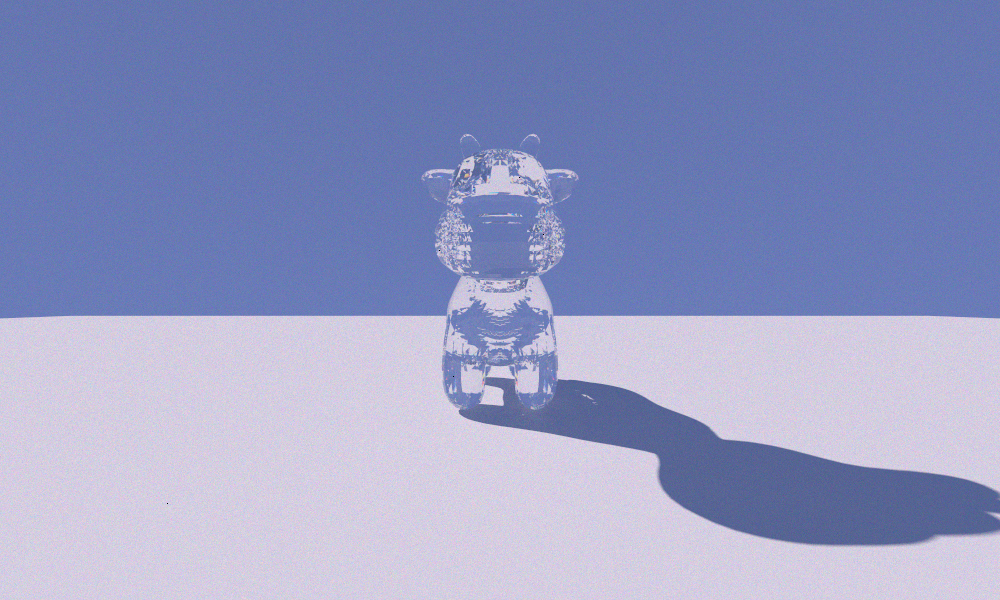
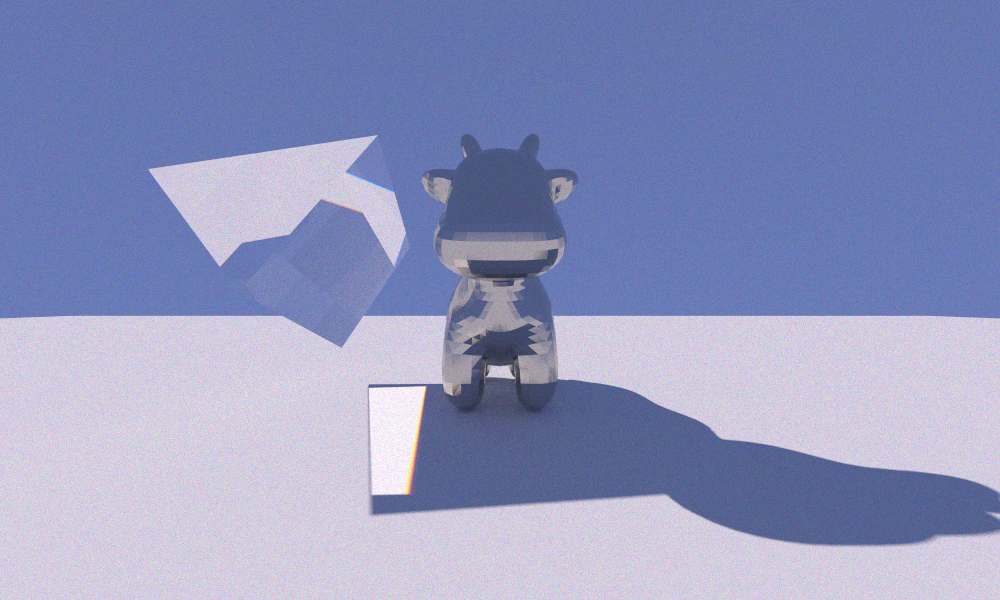
caustics cleanup

Changed region(s): [[0.0, 0.21, 1.0, 1.0]]

diff --git a/include/acceleration_ds.hpp b/include/acceleration_ds.hpp
@@ -66,6 +66,7 @@ struct DeviceBVH {
     Triangle* tris;
     Material lambertian = make_lambertian(0.7);
     Material glass = make_dielectric();
+    Material metal = make_metal(MetalType::Chrome, 0.1);
 
     // for mapping the triangles to the objects they belong to
     const uint32_t* object_boundaries = nullptr;

diff --git a/include/constants.hpp b/include/constants.hpp
@@ -3,7 +3,7 @@
 
 // gpu
 const int BLOCK_SIZE = 32;
-const int SPP = 1024;
+const int SPP = 512;
 const short MAX_PTR_COUNT = 64;
 
 // rendering
